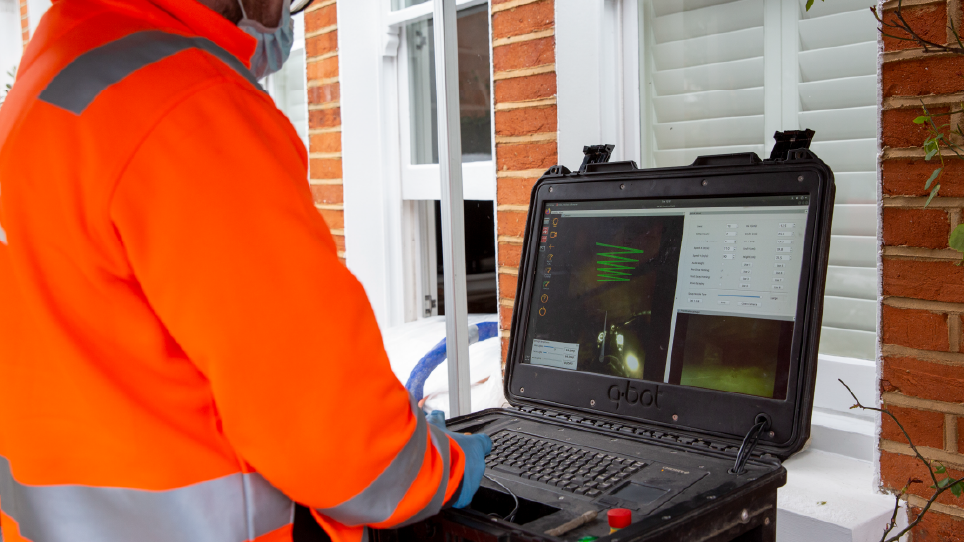
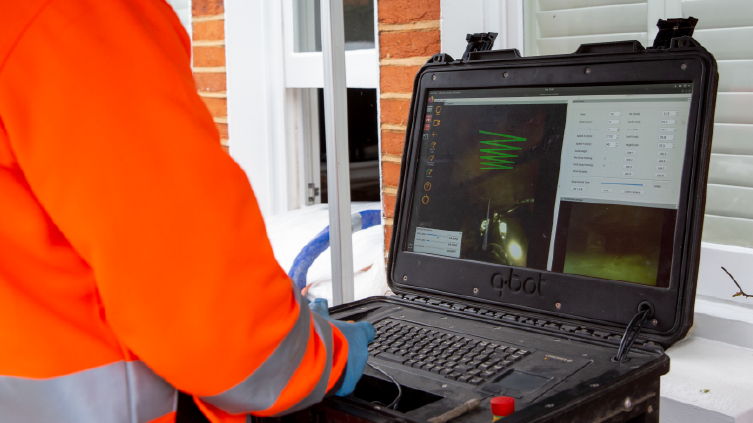
Updated photos in robot software project + removed one metric for spraygun project

diff --git a/projects/robot-control-interface/index.html b/projects/robot-control-interface/index.html
@@ -223,8 +223,8 @@ height="0" width="0" style="display:none;visibility:hidden"></iframe></noscript>
 
 <div class="wide">
   <div class="grid2">
-    <figure class="figure"><img src="/images/projects/robot-control-interface/cover.jpg" alt="Robot operating on an underfloor installation"></figure>
-    <figure class="figure"><img src="/images/projects/robot-control-interface/installers-onsite.jpg" alt="Installers on site with the robot"></figure>
+    <figure class="figure"><img src="/images/projects/robot-control-interface/Onsite_control unit_Lovell project.png" alt="Zoom on control unit screen used to operate the robot"></figure>
+    <figure class="figure"><img src="/images/projects/robot-control-interface/JB install living room-2.png" alt="Installer spraying insulation on site with the robot"></figure>
   </div>
 </div>
 

diff --git a/styles.css b/styles.css
@@ -239,7 +239,7 @@ a:hover{text-decoration:underline;}
 
   /* ---------- about page - sketch gallery — masonry */
   .about-page .gallery{columns:3;column-gap:18px;margin-top:30px;}
-  .about-page .gallery figure{margin:0 0 18px;break-inside:avoid;}
+  .about-page .gallery figure{margin:0 0 18px;break-inside:avoid; object-fit: cover;}
   .about-page .gallery img{width:100%;height:auto;display:block;border-radius:var(--radius-sm);border:1px solid var(--line);
         box-shadow:var(--shadow);background:var(--surface-warm);}
 

diff --git a/projects/interactive-parts-system/index.html b/projects/interactive-parts-system/index.html
@@ -110,10 +110,6 @@ height="0" width="0" style="display:none;visibility:hidden"></iframe></noscript>
       <div class="num">95%</div>
       <div class="lbl">reduction in equipment faults</div>
     </div>
-    <div class="metric">
-      <div class="num">25+</div>
-      <div class="lbl">users across field and operations roles</div>
-    </div>
   </div>
 </div> 
 
